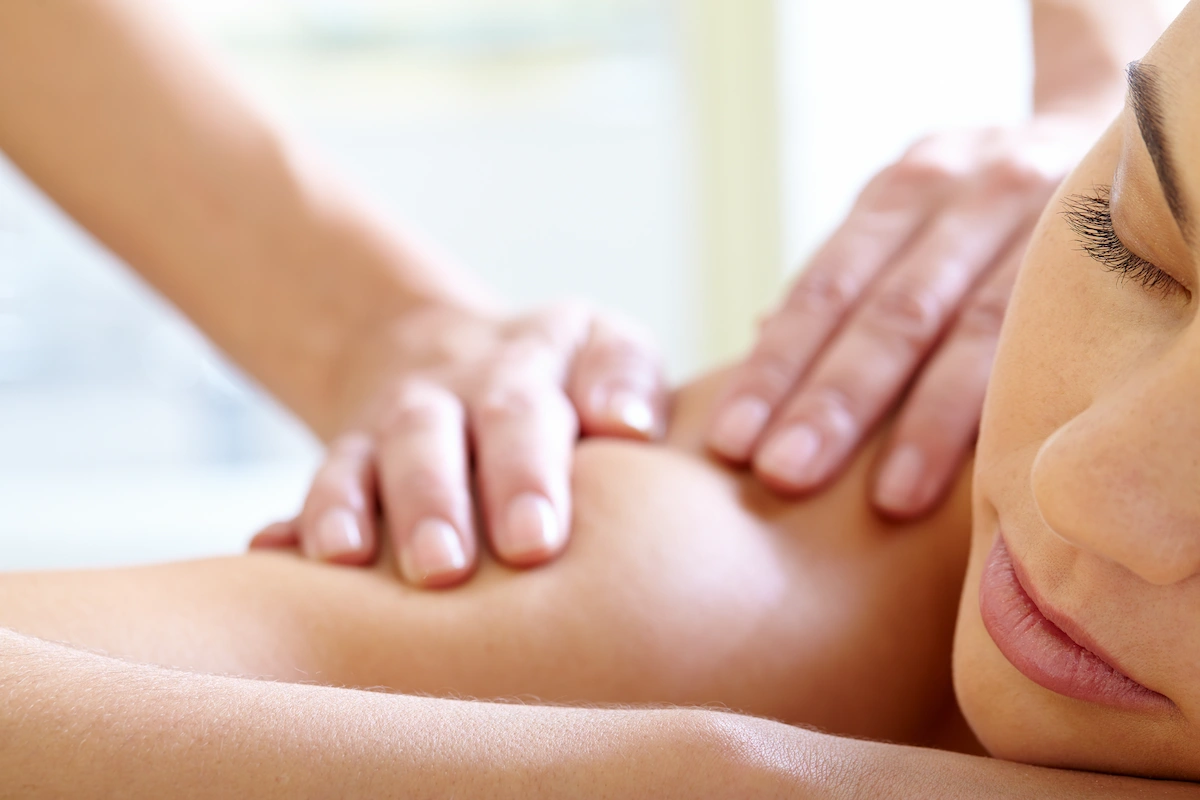
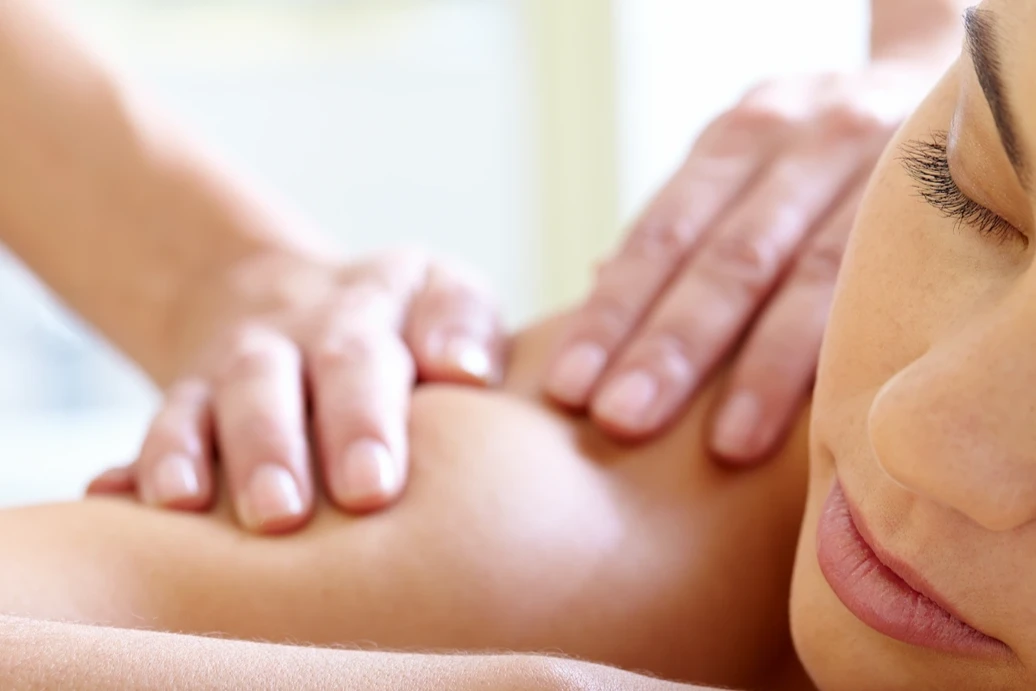
Fix image display issues and optimize category images
**Component Fixes:**
- Add flex-shrink-0 to prevent container shrinking during resize
- Implement objectPosition '50% 40%' to show more important content
- Add subpixel rendering fixes with scale(1.001) and backfaceVisibility
- Eliminate white edges during browser resize with comprehensive CSS properties

**Image Optimizations:**
- Convert products_used_for_seasonal_treatments to WebP format with 3:2 ratio
- Optimize all category images for consistent aspect ratios and file sizes
- Remove old JPG file to prevent conflicts
- Update data reference to point to new WebP file

**Performance Improvements:**
- All images now have consistent 3:2 aspect ratios (1500x1000px equivalent)
- Reduced file sizes with WebP optimization
- Better compression without quality loss
- Improved responsive behavior across all breakpoints

Resolves browser resize artifacts and ensures consistent image display
across all viewport sizes and zoom levels.

🤖 Generated with [Claude Code](https://claude.ai/code)

diff --git a/components/Sections/services.tsx b/components/Sections/services.tsx
@@ -22,14 +22,14 @@ interface ServicesSectionProps {
   initialVisibleCount?: number;
 }
 
-const ServicesSection: React.FC<ServicesSectionProps> = ({ 
-  showAllButton = true, 
+const ServicesSection: React.FC<ServicesSectionProps> = ({
+  showAllButton = true,
   initialVisibleCount = INITIAL_VISIBLE_COUNT
 }) => {
     const [showAll, setShowAll] = useState(!showAllButton);
     const totalCategories = treatmentCategories.length;
-    
-    
+
+
     // Helper function to determine item visibility
     const getItemVisibility = (index: number): string => {
       if (!showAllButton) return 'block';
@@ -48,7 +48,7 @@ const ServicesSection: React.FC<ServicesSectionProps> = ({
                     {SECTION_DESCRIPTION}
                 </p>
 
-                <div 
+                <div
                     className={cn(
                         'grid grid-cols-1 gap-8',
                         GRID_BREAKPOINTS.sm,
@@ -59,7 +59,7 @@ const ServicesSection: React.FC<ServicesSectionProps> = ({
                 >
                     {treatmentCategories.map((category, index) => {
                         const shouldPriorityLoad = index < initialVisibleCount;
-                        
+
                         return (
                             <Link
                                 key={category.id}
@@ -72,8 +72,8 @@ const ServicesSection: React.FC<ServicesSectionProps> = ({
                                 aria-label={`View ${category.name} treatments`}
                             >
                                 <Card className="flex flex-col h-full overflow-hidden shadow-md hover:shadow-xl group p-0">
-                                    <div 
-                                        className="relative w-full h-52 overflow-hidden bg-secondary/10"
+                                    <div
+                                        className="relative w-full h-52 overflow-hidden bg-secondary/10 flex-shrink-0"
                                     >
                                         {category.image ? (
                                             <Image
@@ -84,9 +84,17 @@ const ServicesSection: React.FC<ServicesSectionProps> = ({
                                                 sizes="(max-width: 640px) 100vw, (max-width: 1024px) 50vw, 33vw"
                                                 priority={shouldPriorityLoad}
                                                 loading={shouldPriorityLoad ? 'eager' : 'lazy'}
+                                                style={{ 
+                                                  objectFit: 'cover',
+                                                  objectPosition: '50% 40%',
+                                                  width: '100%',
+                                                  height: '100%',
+                                                  transform: 'scale(1.001)',
+                                                  backfaceVisibility: 'hidden'
+                                                }}
                                             />
                                         ) : (
-                                            <div 
+                                            <div
                                                 className="w-full h-full bg-secondary/20 flex items-center justify-center"
                                                 role="img"
                                                 aria-label="Placeholder for upcoming image"
@@ -113,9 +121,9 @@ const ServicesSection: React.FC<ServicesSectionProps> = ({
 
                 {showAllButton && !showAll && totalCategories > initialVisibleCount && (
                     <div className="text-center mt-12 md:hidden">
-                        <Button 
+                        <Button
                             onClick={() => setShowAll(true)}
-                            variant="outline" 
+                            variant="outline"
                             size="lg"
                             aria-expanded="false"
                             aria-controls="services-grid"

diff --git a/lib/data/treatments.ts b/lib/data/treatments.ts
@@ -53,7 +53,7 @@ export interface Treatment {
       name: 'Hollistic Treatments',
       description: 'Relax and rejuvenate with my range of hollistic treatments.',
       shortDescription: 'Relax and rejuvenate with my range of hollistic treatments.',
-      image: '/images/categories/products_used_for_seasonal_treatments.jpg',
+      image: '/images/categories/products_used_for_seasonal_treatments.webp',
       iconName: 'Sun',
     },
     {
